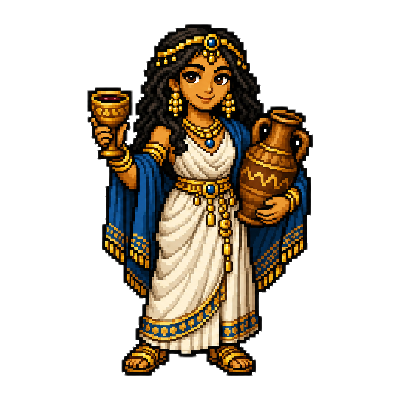
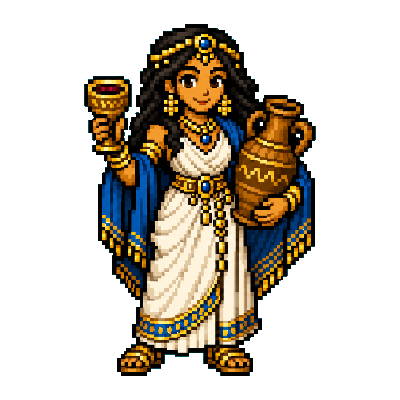
fixes

Changed region(s): [[0.21, 0.06, 0.81, 0.96]]

diff --git a/src/components/ui/factory-card/factory-card.upgrade.tsx b/src/components/ui/factory-card/factory-card.upgrade.tsx
@@ -4,10 +4,10 @@ import { Button } from "@/components/ui/button";
 import { NumberText } from "@/components/ui/number-text";
 import { ResponsiveDialogTrigger } from "@/components/ui/responsive-dialog";
 import {
-  ResponsiveTooltip,
-  ResponsiveTooltipContent,
-  ResponsiveTooltipTrigger,
-} from "@/components/ui/responsive-tooltip";
+  Tooltip,
+  TooltipContent,
+  TooltipTrigger,
+} from "@/components/ui/tooltip";
 import { canPurchaseUnits, canUnlockFactory } from "@/game/purchases";
 import { m } from "@/i18n/messages";
 import { cn } from "@/lib/cn";
@@ -156,21 +156,18 @@ export const FactoryCardUpgrade = (props: React.ComponentProps<"div">) => {
 
       <React.Suspense fallback={null}>
         <LazyFactoryDialog factoryType={factoryType}>
-          <ResponsiveTooltip>
-            <ResponsiveTooltipTrigger asChild>
+          <Tooltip>
+            <TooltipTrigger asChild>
               <ResponsiveDialogTrigger asChild>
-                <Button
-                  size="icon-lg"
-                  variant="blue"
-                >
+                <Button size="icon-lg" variant="blue">
                   <span className="sr-only">{ledgerLabel}</span>
                   <InfoBox className="size-4" />
                 </Button>
               </ResponsiveDialogTrigger>
-            </ResponsiveTooltipTrigger>
+            </TooltipTrigger>
 
-            <ResponsiveTooltipContent>{ledgerLabel}</ResponsiveTooltipContent>
-          </ResponsiveTooltip>
+            <TooltipContent>{ledgerLabel}</TooltipContent>
+          </Tooltip>
         </LazyFactoryDialog>
       </React.Suspense>
     </div>

diff --git a/src/components/ui/drawer/drawer.tsx b/src/components/ui/drawer/drawer.tsx
@@ -155,12 +155,12 @@ const drawerContentVariants = tv({
     "relative",
     "z-[calc(50+var(--layer-index,0))]",
     "w-full",
-    "h-auto max-h-svh shrink-0",
+    "h-auto max-h-[calc(92svh-env(safe-area-inset-top,0)-var(--drawer-image-overflow))] shrink-0",
     "has-data-[slot=drawer-media]:overflow-visible",
     "mb-0 pb-14",
-    "sm:-mb-(--bleed) sm:max-h-svh sm:shrink sm:pb-[calc(0+env(safe-area-inset-bottom,0)+var(--bleed))]",
+    "sm:-mb-(--bleed) sm:max-h-[92svh] sm:shrink sm:pb-[calc(0+env(safe-area-inset-bottom,0)+var(--bleed))]",
     "sm:has-data-[slot=drawer-media]:overflow-hidden",
-    "has-data-[slot=dialog-image]:max-h-[min(svh,calc(svh-var(--drawer-image-overflow)-env(safe-area-inset-top,0px)-env(safe-area-inset-bottom,0px)))]",
+    "has-data-[slot=dialog-image]:max-h-[min(92svh,calc(92svh-var(--drawer-image-overflow)-env(safe-area-inset-top,0px)-env(safe-area-inset-bottom,0px)))]",
     "border-4 border-primary bg-popover",
     "text-muted",
     "inset-shadow-xs",